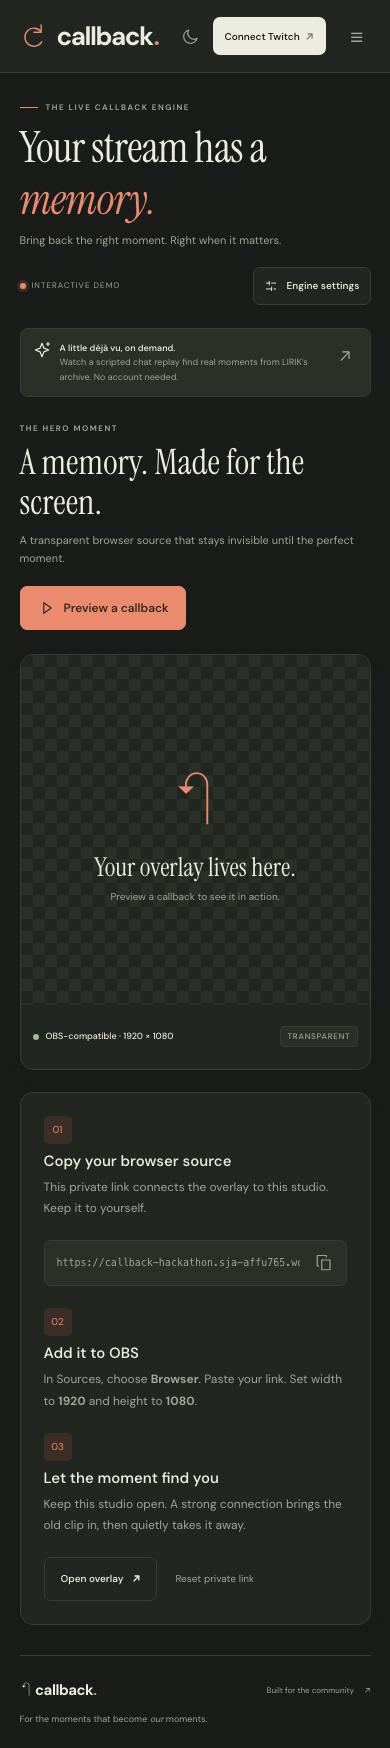
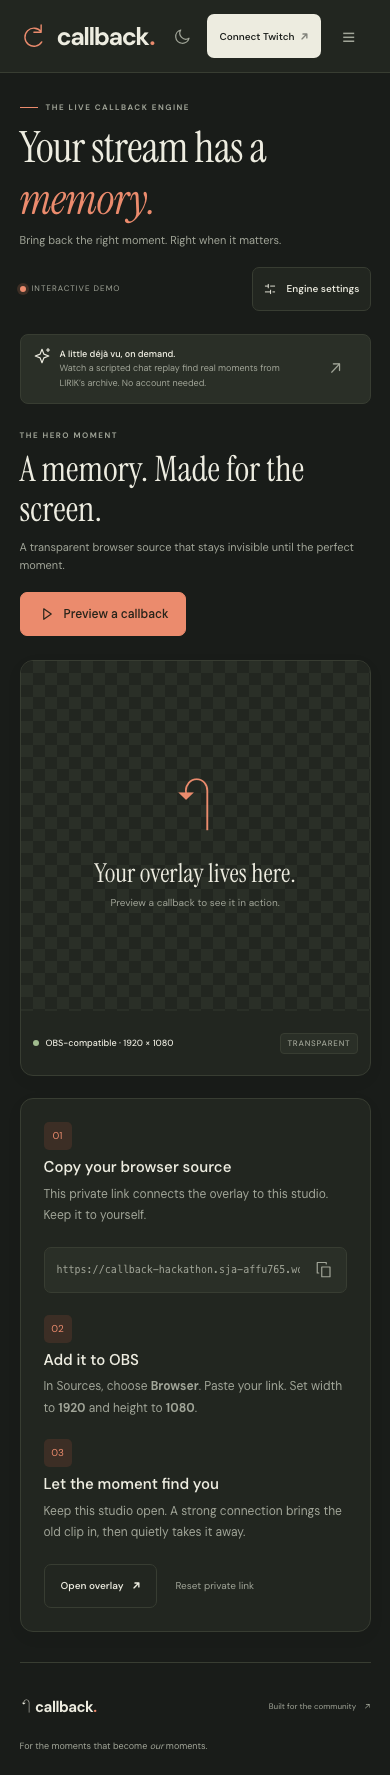
Protect read-only overlays and refine mobile studio controls

diff --git a/src/worker.js b/src/worker.js
@@ -27,6 +27,11 @@ export default {
     try {
       if (url.pathname === "/api/health")
         return json({ ok: true, service: "callback", version: "1.0.0" });
+      if (url.pathname === "/overlay" || url.pathname === "/overlay/") {
+        return env.ASSETS.fetch(
+          new Request(new URL("/overlay.html", url.origin), request),
+        );
+      }
       if (
         !url.pathname.startsWith("/api/") &&
         !url.pathname.startsWith("/auth/")
@@ -49,9 +54,15 @@ export default {
           embedding: "@cf/baai/bge-small-en-v1.5",
         });
       const overlay = url.pathname === "/api/overlay";
+      const sessionParts = (
+        readCookie(request, "callback_session") || ""
+      ).split(".");
+      let controlKey = sessionParts[1];
       let id = overlay
         ? url.searchParams.get("room")
-        : readCookie(request, "callback_session");
+        : /^[a-f0-9-]{36}$/.test(controlKey || "")
+          ? sessionParts[0]
+          : null;
       let fresh = false;
       try {
         if (id) env.STUDIO.idFromString(id);
@@ -68,18 +79,25 @@ export default {
             401,
           );
         id = env.STUDIO.newUniqueId().toString();
+        controlKey = crypto.randomUUID();
         fresh = true;
       }
       const stub = env.STUDIO.get(env.STUDIO.idFromString(id));
       const headers = new Headers(request.headers);
       headers.set("X-Studio-ID", id);
       headers.set("X-Public-Origin", url.origin);
+      headers.delete("X-Control-Key");
+      if (!overlay) headers.set("X-Control-Key", controlKey);
       const response = await stub.fetch(new Request(request, { headers }));
       if (fresh && response.status !== 101) {
         const next = new Response(response.body, response);
         next.headers.append(
           "Set-Cookie",
-          cookie("callback_session", id, url.protocol === "https:"),
+          cookie(
+            "callback_session",
+            `${id}.${controlKey}`,
+            url.protocol === "https:",
+          ),
         );
         return next;
       }
@@ -245,6 +263,24 @@ export class Studio {
           return json({ ok: true, settings: this.data.settings });
         return this.socket();
       }
+      const controlKey = request.headers.get("X-Control-Key");
+      if (!controlKey)
+        return json(
+          { error: "Open this action from your private studio." },
+          403,
+        );
+      if (!this.data.controlKey) {
+        this.data.controlKey = controlKey;
+        await this.save();
+      }
+      if (controlKey !== this.data.controlKey)
+        return json(
+          {
+            error:
+              "This studio credential is invalid. Open your original studio.",
+          },
+          403,
+        );
       if (path === "/api/socket") {
         if (request.headers.get("Upgrade") !== "websocket")
           return json({ error: "WebSocket required" }, 400);
@@ -345,6 +381,7 @@ export class Studio {
           }).catch(() => {});
         }
         this.data = {
+          controlKey: this.data.controlKey,
           settings: this.data.settings,
           clips: [],
           history: [],

diff --git a/public/styles.css b/public/styles.css
@@ -3202,3 +3202,101 @@ input[type="range"] {
 .primary:hover {
   background: var(--button-accent-hover);
 }
+@media (max-width: 700px) {
+  .topbar {
+    gap: 6px;
+  }
+  .topbar .wordmark {
+    font-size: 25px;
+  }
+  .top-actions {
+    gap: 2px;
+  }
+  .top-actions .icon-button,
+  .mobile-menu {
+    min-width: 44px;
+    width: 44px;
+    min-height: 44px;
+  }
+  .top-actions .connect-button,
+  .heading-actions .button {
+    min-height: 44px;
+  }
+  .speed-control button {
+    min-width: 44px;
+    min-height: 44px;
+  }
+  .demo-banner button {
+    min-width: 44px;
+    min-height: 44px;
+  }
+  .source-link {
+    min-height: 44px;
+    display: inline-flex;
+    align-items: center;
+  }
+  .subtle-button {
+    min-height: 44px;
+    min-width: 44px;
+  }
+  footer a {
+    min-height: 44px;
+    display: inline-flex;
+    align-items: center;
+  }
+}
+.wordmark {
+  min-height: 44px;
+}
+.callback-play {
+  width: 44px;
+  height: 44px;
+}
+@media (max-width: 700px) {
+  .search-field input {
+    min-height: 44px;
+  }
+  .reset-button {
+    min-width: 44px;
+    width: 44px;
+  }
+  .stage .callback-card {
+    width: calc(100% - 24px);
+    max-width: 350px;
+    left: 12px;
+    bottom: 20px;
+  }
+  .stage .callback-image {
+    height: 65px;
+    aspect-ratio: auto;
+  }
+  .stage .callback-card .callback-top {
+    padding: 6px 10px;
+  }
+  .stage .callback-card .callback-detail {
+    padding: 7px 10px;
+  }
+  .stage .callback-card .callback-detail h3 {
+    font-size: 17px;
+    line-height: 1.12;
+    display: -webkit-box;
+    -webkit-line-clamp: 2;
+    -webkit-box-orient: vertical;
+    overflow: hidden;
+    margin-bottom: 4px;
+  }
+  .stage .callback-card .callback-detail p {
+    font-size: 8px;
+    line-height: 1.5;
+    white-space: nowrap;
+    overflow: hidden;
+    text-overflow: ellipsis;
+  }
+  .stage .callback-detail a {
+    min-height: 44px;
+    display: flex;
+    align-items: center;
+    margin-top: 0;
+    font-size: 9px;
+  }
+}

diff --git a/public/app.js b/public/app.js
@@ -176,7 +176,7 @@ async function overlayMode() {
   }
   connect();
 }
-if (location.pathname === "/overlay" || location.pathname === "/overlay/") {
+if (["/overlay", "/overlay/", "/overlay.html"].includes(location.pathname)) {
   overlayMode();
 } else {
   startStudio();
@@ -503,6 +503,11 @@ function startStudio() {
       state.history.length +
       " moment" +
       (state.history.length === 1 ? "" : "s");
+    if (!state.history.length) {
+      list.innerHTML =
+        '<div class="trail-empty"><span>↶</span><p>Your first callback starts the story.</p><small>Strong connections will leave their evidence here.</small></div>';
+      return;
+    }
     list.innerHTML = state.history
       .map(
         (c) =>
@@ -857,6 +862,27 @@ function startStudio() {
     resetReplay();
     state.mode = "live";
     state.clips = state.session.clips || [];
+    state.history = (state.session.history || []).map((moment) => ({
+      ...moment,
+      source: "live",
+    }));
+    renderTrail();
+    $("#stat-callbacks").innerHTML =
+      state.history.length + "<span>moments</span>";
+    if (state.history.length) {
+      $("#stat-confidence").innerHTML =
+        Math.round(state.history[0].score * 100) +
+        "<span>% semantic similarity</span>";
+      $("#stat-last").textContent =
+        "Last callback · " +
+        new Date(state.history[0].at).toLocaleTimeString([], {
+          hour: "2-digit",
+          minute: "2-digit",
+        });
+    } else {
+      $("#stat-confidence").innerHTML = "—<span>waiting for a match</span>";
+      $("#stat-last").textContent = "The next inside joke starts here";
+    }
     state.settings = { ...state.settings, ...state.session.settings };
     document.body.classList.add("live-mode");
     $(".workspace").innerHTML =

diff --git a/tests/server.test.js b/tests/server.test.js
@@ -42,6 +42,7 @@ const req = (path, body) =>
     headers: {
       "X-Public-Origin": "https://callback.example",
       "X-Studio-ID": "studio",
+      "X-Control-Key": "test-controller-credential",
       "Content-Type": "application/json",
     },
     ...(body ? { body: JSON.stringify(body) } : {}),
@@ -73,6 +74,7 @@ test("public session never returns OAuth credentials or vectors", async () => {
   const r = await room.fetch(req("/api/session"));
   const text = await r.text();
   assert.ok(!text.includes("private-test"));
+  assert.ok(!text.includes("test-controller-credential"));
   assert.equal(JSON.parse(text).clips[0].vector, undefined);
 });
 test("settings enforce confidence, cooldown and screen-time bounds", async () => {
@@ -179,4 +181,19 @@ test("manual fire rejects stale candidates", async () => {
   const response = await room.fetch(req("/api/fire", { id: "old" }));
   assert.equal(response.status, 409);
   assert.equal(room.data.history.length, 0);
+});
+
+test("overlay information cannot authorize studio control, including after disconnect", async () => {
+  const { room } = await studio();
+  await room.fetch(req("/api/session"));
+  const forged = req("/api/settings", { autoFire: true });
+  forged.headers.set("X-Control-Key", room.data.overlayKey);
+  assert.equal((await room.fetch(forged)).status, 403);
+  const missing = req("/api/session");
+  missing.headers.delete("X-Control-Key");
+  assert.equal((await room.fetch(missing)).status, 403);
+  assert.equal(room.data.settings.autoFire, false);
+  await room.fetch(req("/api/disconnect", {}));
+  assert.equal(room.data.controlKey, "test-controller-credential");
+  assert.equal((await room.fetch(forged)).status, 403);
 });

diff --git a/public/overlay.html b/public/overlay.html
@@ -1,0 +1,24 @@
+<!doctype html>
+<html lang="en" style="background: transparent">
+  <head>
+    <meta charset="utf-8" />
+    <meta name="viewport" content="width=device-width, initial-scale=1" />
+    <meta name="robots" content="noindex, nofollow" />
+    <meta name="referrer" content="no-referrer" />
+    <title>Callback — OBS overlay</title>
+    <link rel="icon" href="/assets/favicon.svg" type="image/svg+xml" />
+    <link rel="preconnect" href="https://fonts.googleapis.com" />
+    <link rel="preconnect" href="https://fonts.gstatic.com" crossorigin />
+    <link
+      href="https://fonts.googleapis.com/css2?family=DM+Sans:wght@400;500;600&family=Instrument+Serif&display=swap"
+      rel="stylesheet"
+    />
+    <link rel="stylesheet" href="/styles.css" />
+    <script type="module" src="/app.js"></script>
+  </head>
+  <body class="overlay-only" style="background: transparent; margin: 0">
+    <noscript
+      >This overlay needs JavaScript enabled in the browser source.</noscript
+    >
+  </body>
+</html>

diff --git a/README.md b/README.md
@@ -11,11 +11,11 @@ Open the demo, press **Let’s replay**, and watch the engine find a connection.
 ## What works
 
 - Four scripted replay scenarios against six real, credited public clips. Pause, rewind, change speed, and inspect the result.
-- Transparent OBS browser source with an animated entrance, original clip player, date, connection, progress bar, and exit.
+- Dedicated transparent OBS page, invisible even during startup, with an animated entrance, original clip player, date, connection, progress bar, and exit.
 - Server-synchronized overlays, including overlays opened on another device. Private overlay links can be rotated.
 - Searchable clip library with category filters, original clip playback, and overlay previews.
 - Adjustable confidence, cooldown, screen duration, automatic airing, and chat posting.
-- Candidate reasoning, manual approval, veto, session history, and downloadable evidence.
+- Candidate reasoning, manual approval, veto, session history restored on refresh, and downloadable evidence.
 - Light, dark, and system themes; responsive layouts checked at 390px; keyboard focus and reduced-motion support.
 - Twitch authorization-code flow, expiring state, server-only credentials, token refresh, and disconnect/revocation.
 - Own-channel Helix indexing with progress, up to 500 clips per index operation, category resolution, neural embeddings, and durable vector storage.
@@ -91,7 +91,7 @@ npm run deploy
 
 `wrangler.jsonc` names the Worker **callback-hackathon**, binds its Durable Object namespace and embedding service, and serves `public/`. Its account ID identifies this deployment; use your own Cloudflare account ID when deploying a fork. Cloudflare's runtime services may incur normal usage charges. No managed vector database is needed.
 
-Static response headers restrict script, frame, and asset origins. Mutating requests and studio WebSockets require a matching origin. Cookies are HttpOnly, Secure in production, and SameSite=Lax. Overlay links are bearer secrets; resetting a link closes existing sockets. Disconnect revokes the Twitch token and clears the session's channel data.
+Static response headers restrict script, frame, and asset origins. Mutating requests and studio WebSockets require a matching origin. Cookies are HttpOnly, Secure in production, and SameSite=Lax. Overlay links are read-only bearer secrets, separate from the HttpOnly controller credential; resetting a link closes existing sockets. Disconnect revokes the Twitch token and clears the session's channel data.
 
 ## Demo credit and playback
 

diff --git a/docs/VERIFICATION.md b/docs/VERIFICATION.md
@@ -1,6 +1,6 @@
 # Verification record
 
-- 14 engine/server tests: scenario retrieval, unrelated chatter, ambiguity, confidence, manual safety gates, cooldown, duplicate handling, vector semantics, public clip integrity, cross-origin enforcement, credential isolation, setting bounds, overlay authorization, vector persistence, rate-limit backoff, owner-only indexing, and stale-candidate rejection.
+- 15 engine/server tests: scenario retrieval, unrelated chatter, ambiguity, confidence, manual safety gates, cooldown, duplicate handling, vector semantics, public clip integrity, cross-origin enforcement, credential isolation, setting bounds, overlay authorization, vector persistence, rate-limit backoff, owner-only indexing, stale-candidate rejection, and separation of read-only overlay access from controller credentials.
 - Syntax checks for the Worker and frontend modules.
 - The full browser suite also passed against the deployed Cloudflare URL. The public health endpoint returned healthy, and the HTML response returned HTTP 200 with the configured security headers.
 - The captioned replay walkthrough is H.264, 1440 × 1000, approximately 73 seconds, and contains no audio stream.
@@ -8,3 +8,7 @@
 - Dependency audit: no known vulnerabilities after compatible security updates.
 - Native browser preview and an actual OBS application were unavailable. OBS compatibility was checked through the browser-source page, transparent CSS, WebSocket delivery, and native clip embed; no actual OBS session is claimed.
 - The live account-based Twitch flow requires application credentials and broadcaster consent and has not been verified end to end.
+
+- Dedicated overlay HTML was checked before script execution to confirm it contains no dashboard content. Primary phone controls meet 44px tap targets, the animated phone card stays inside the preview, and the live workspace restores library/history in a mocked-session browser check.
+- Production requests verified that the overlay key cannot authorize studio settings and that the controller cookie is separate.
+- The embedded player may emit a browser keyboard-layout permission notice; the browser suite records external-player notices separately from application errors.
